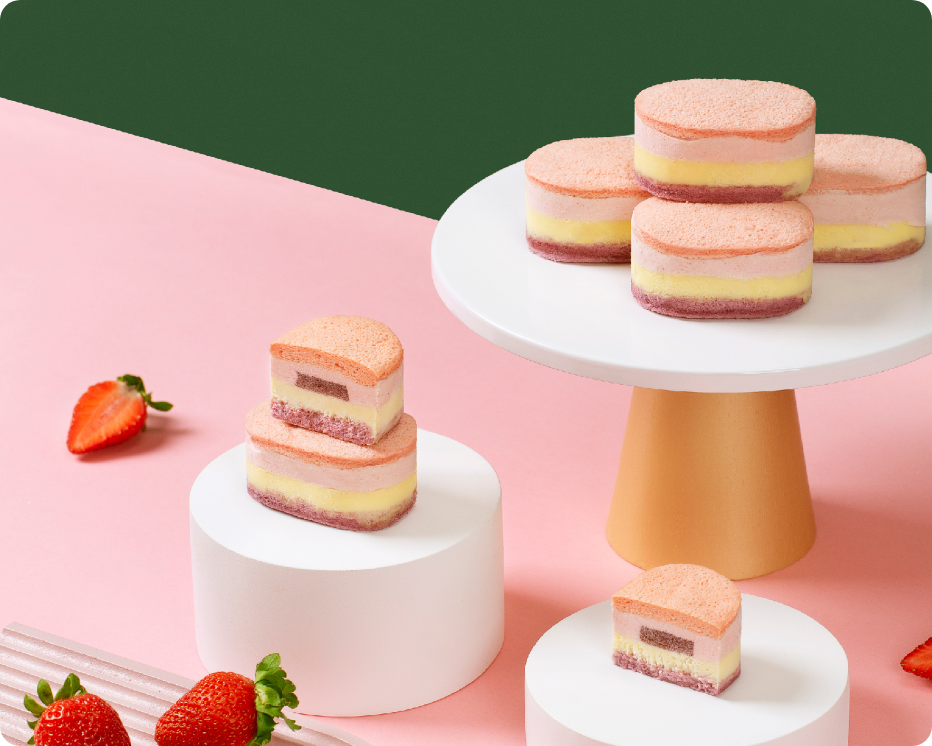
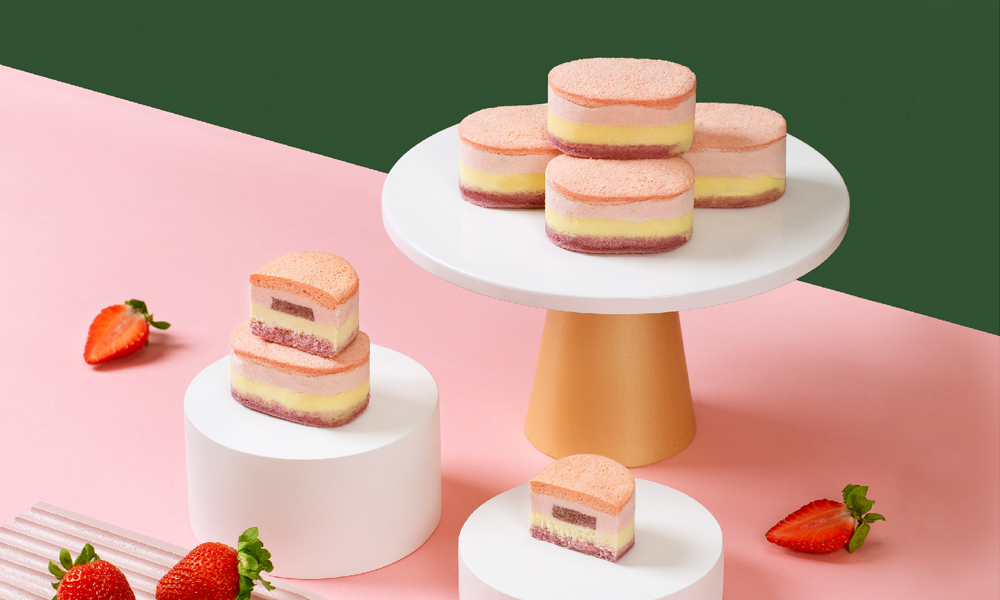
1

diff --git a/pages/Center/Center.vue b/pages/Center/Center.vue
@@ -741,7 +741,7 @@
 	}
 
 	.rightlist .market .prods .div:nth-child(2) image {
-		left: -53%;
+		left: -73%;
 	}
 
 	.rightlist .market .prods .div:nth-child(3) image {
